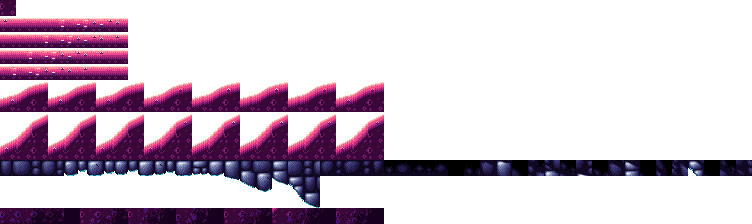
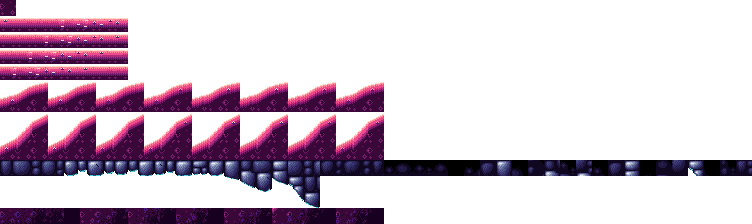
Import the roof boulders art into the trip cave sheet

Changed region(s): [[0.6117, 0.7188, 1.0, 0.7812]]

diff --git a/tools/import_trip_cave.py b/tools/import_trip_cave.py
@@ -41,6 +41,9 @@ builtins.open, Image.open = guarded_open, sheet_open
 sys.path.insert(0, os.path.join(DRAFTS, "2026-11-15-trip-cave-smoothfade"))
 try:
     import build_smooth as S
+    sys.path.insert(0, os.path.join(DRAFTS, "2026-11-15-roof-boulders"))
+    import build_roof   # owner-approved roof boulders: same 18 tile names, same lookup, new pixels
+    S.NEW["roof"] = build_roof.NEW
 finally:
     builtins.open, Image.open = real_open, real_img_open
 BF, B = S.BF, S.B
